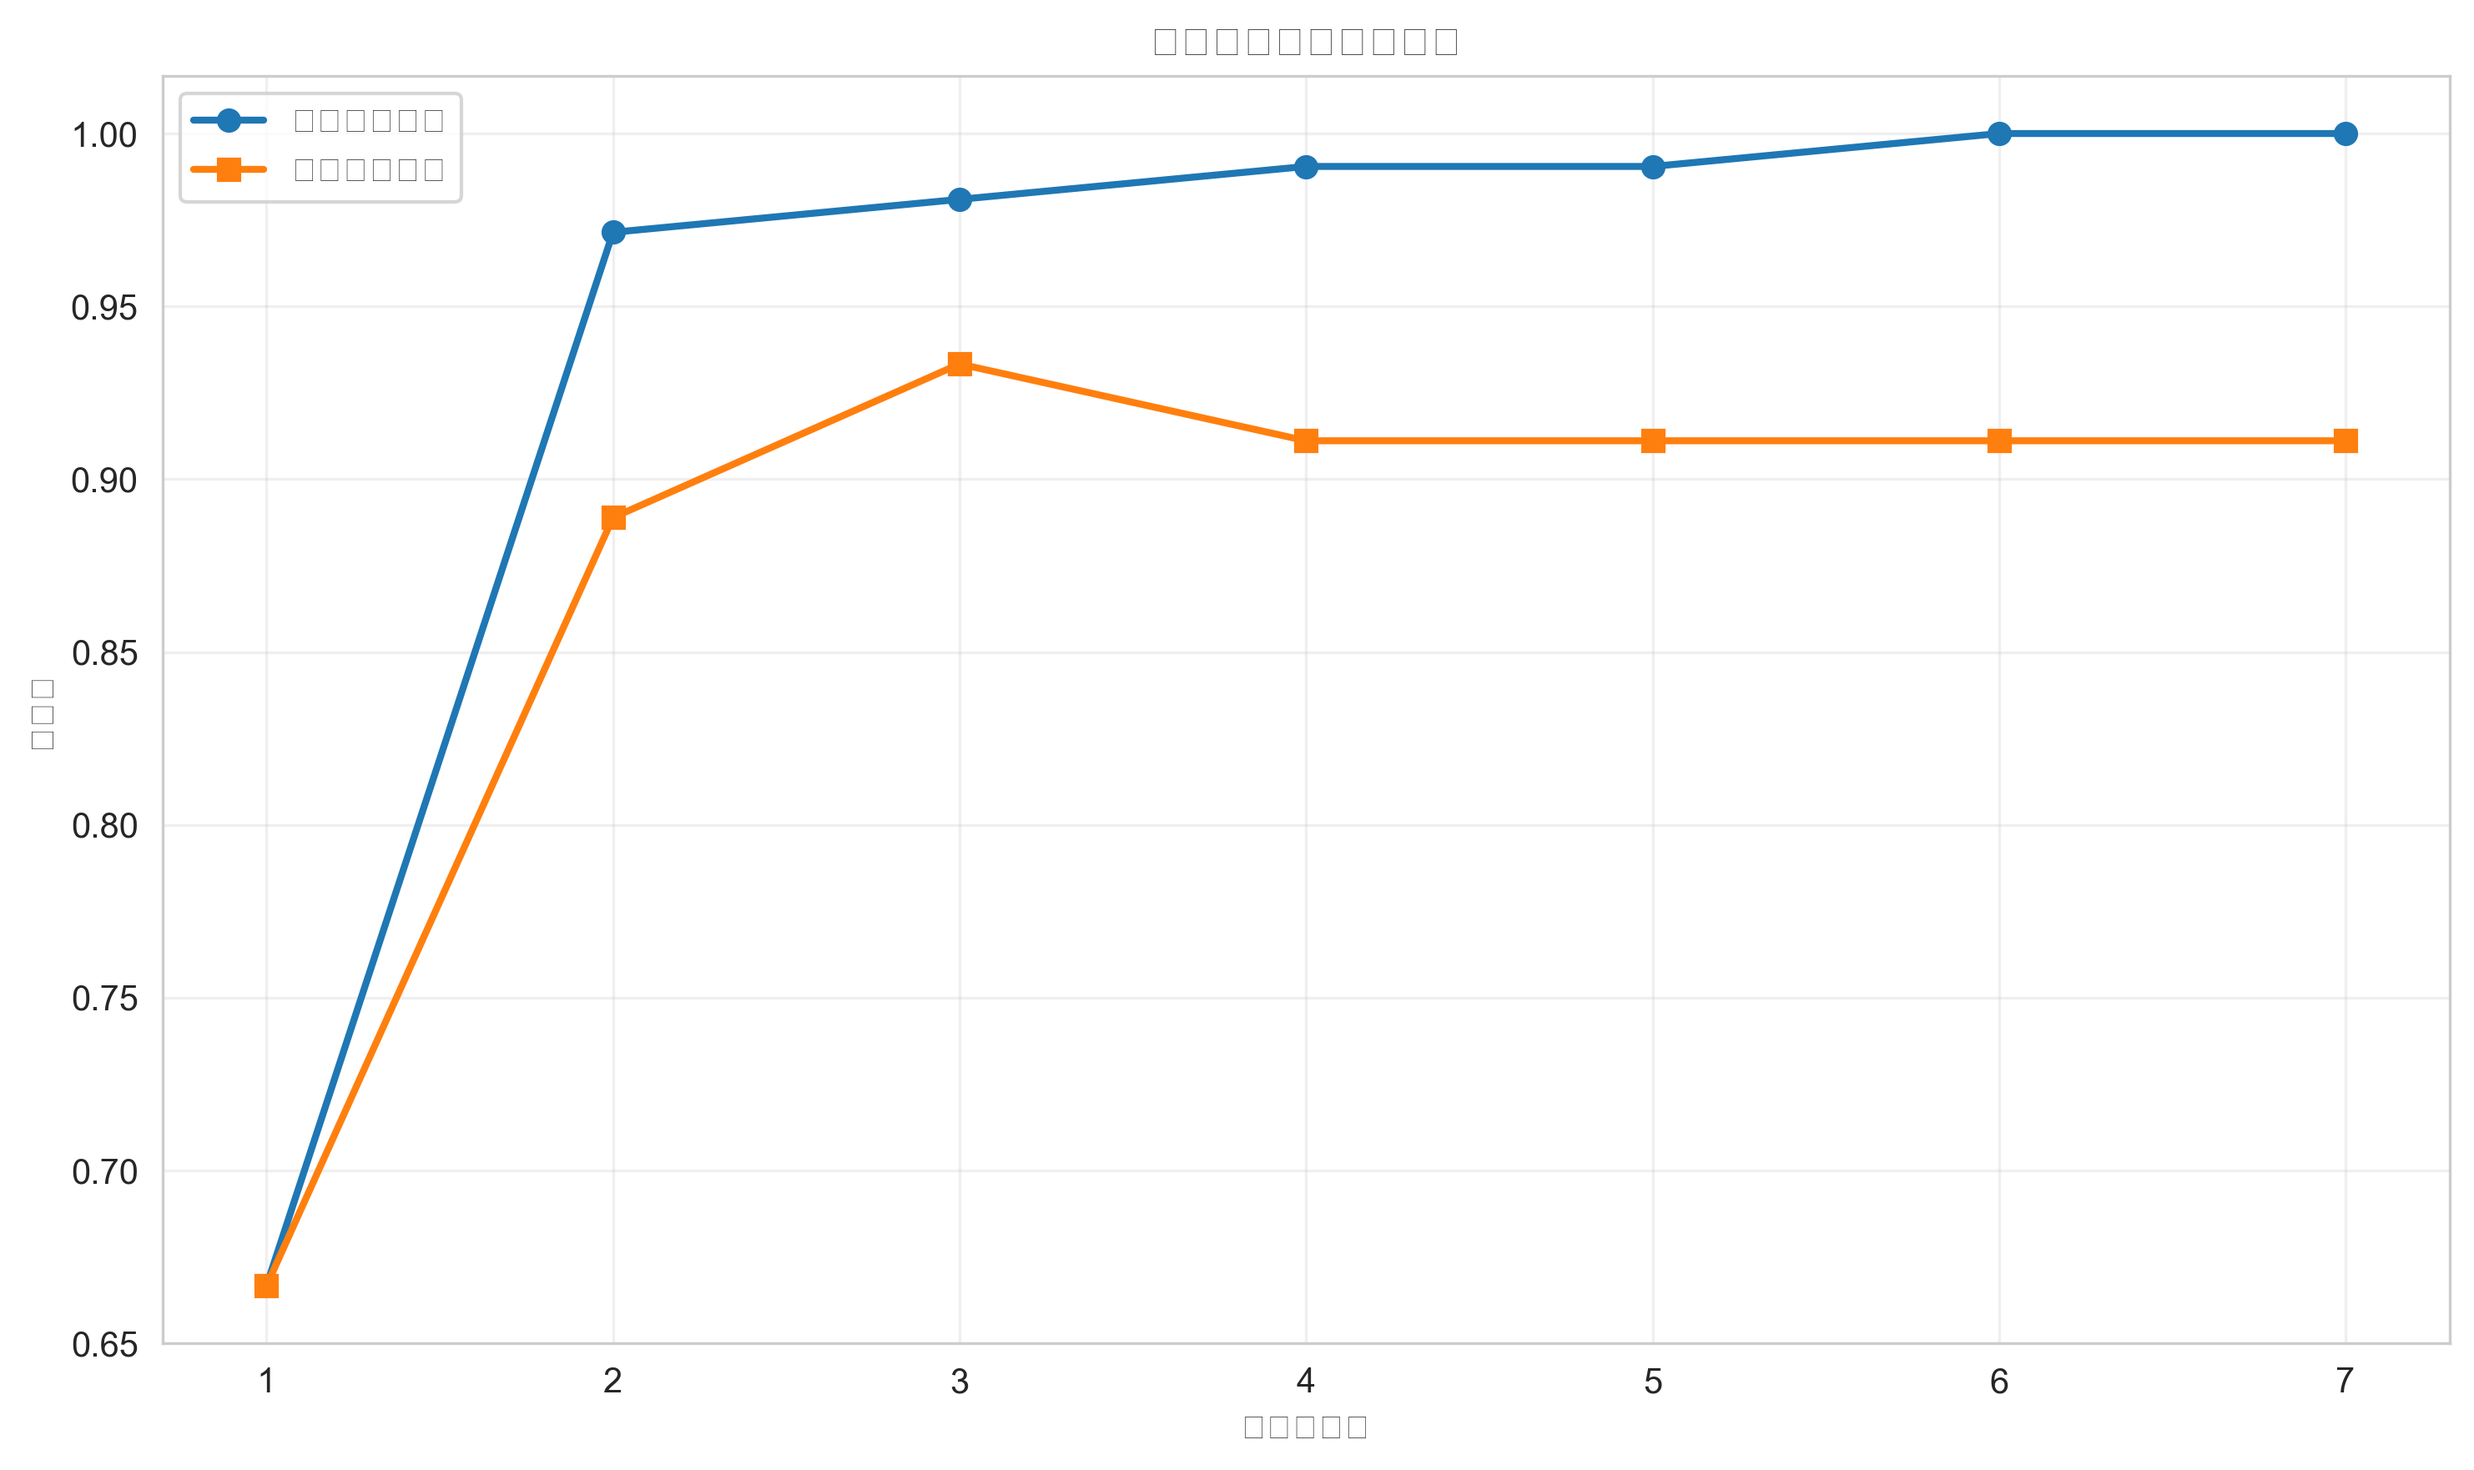
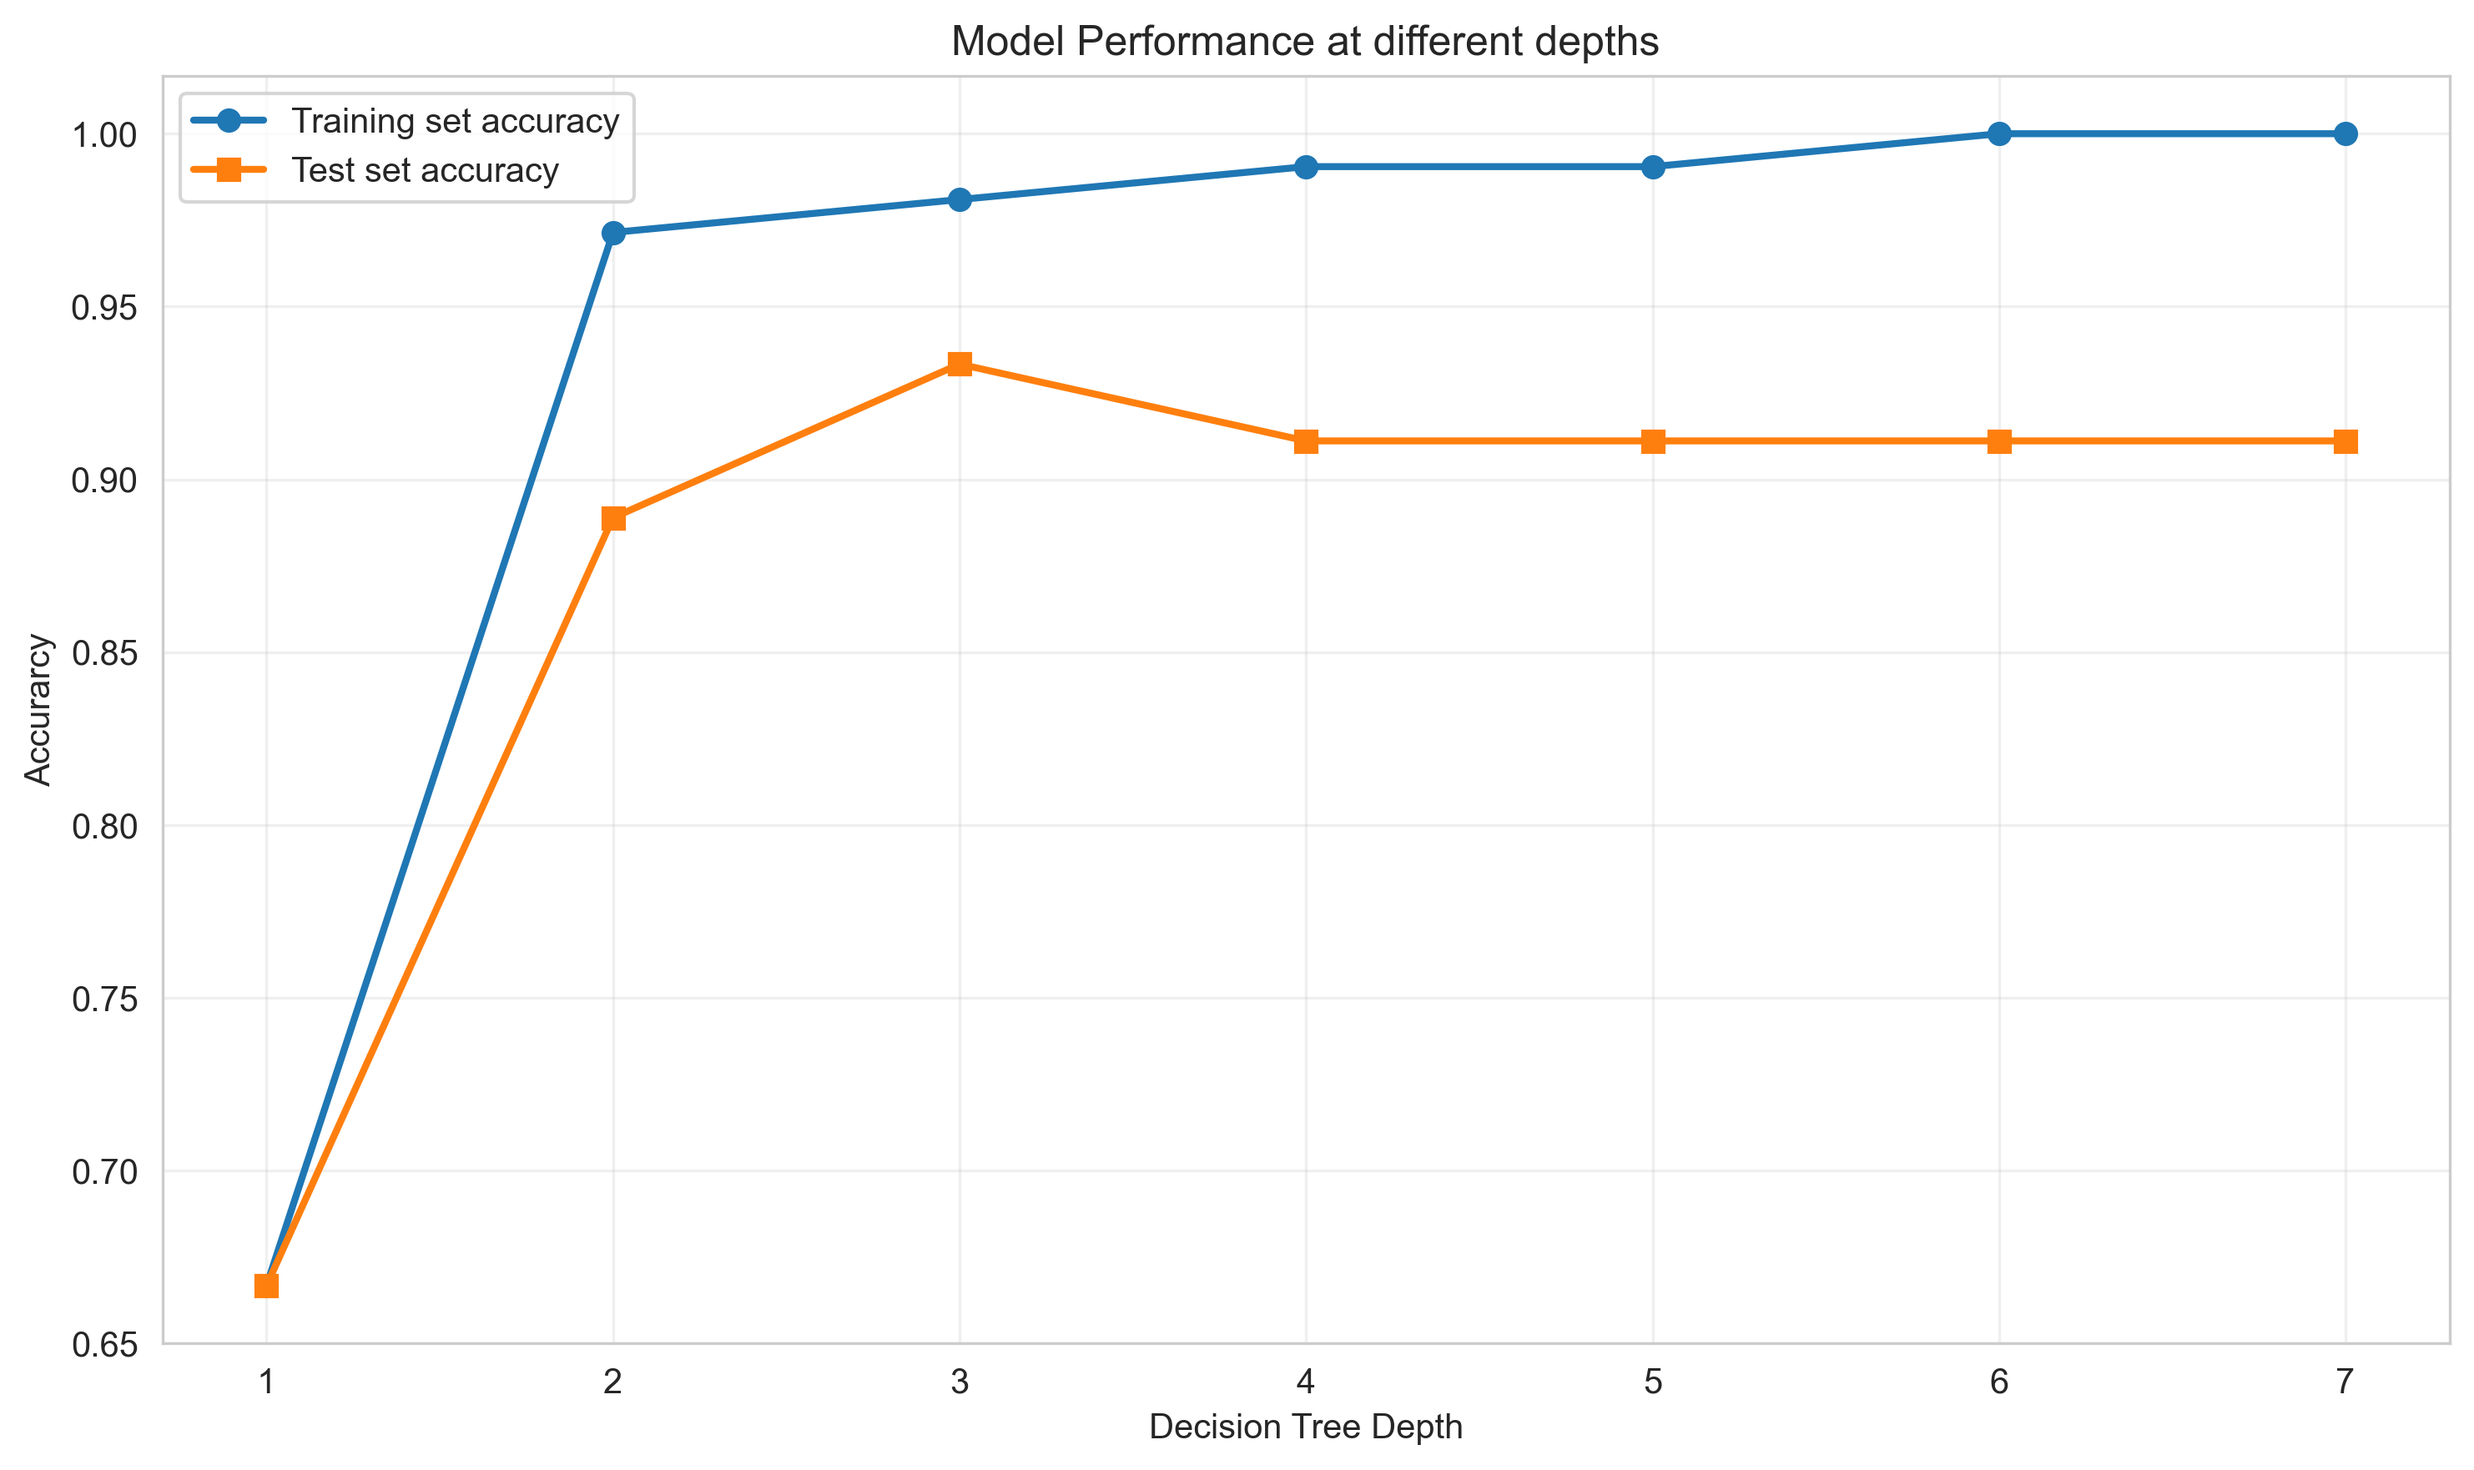
ver 2.0

diff --git a/Decision_Tree_ID3.py b/Decision_Tree_ID3.py
@@ -9,11 +9,7 @@ from sklearn.datasets import load_iris
 from sklearn.model_selection import train_test_split
 from sklearn.metrics import confusion_matrix, classification_report
 
-plt.rcParams['font.sans-serif'] = ['SimHei', 'Arial Unicode MS', 'DejaVu Sans']
-plt.rcParams['axes.unicode_minus'] = False
-
-# 设置中文字体和图形样式
-plt.rcParams['font.sans-serif'] = ['SimHei', 'Arial Unicode MS', 'DejaVu Sans']
+plt.rcParams['font.sans-serif'] = ['DejaVu Sans', 'SimHei', 'Microsoft YaHei', 'Arial Unicode MS', 'WenQuanYi Micro Hei']
 plt.rcParams['axes.unicode_minus'] = False
 sns.set_style("whitegrid")
 
@@ -184,7 +180,7 @@ class DecisionTreeVisualizer:
                 samples = node['samples']
 
                 # 绘制叶节点
-                ax.text(x, y, f'{class_name}\n置信度: {confidence:.2f}\n样本数: {samples}',
+                ax.text(x, y, f'{class_name}\nConfidence Level: {confidence:.2f}\nNumber of Samples: {samples}',
                         ha='center', va='center',
                         bbox=dict(boxstyle="round,pad=0.3", facecolor='lightgreen', alpha=0.7),
                         fontsize=9)
@@ -195,7 +191,7 @@ class DecisionTreeVisualizer:
                 gain = node['gain']
                 samples = node['samples']
 
-                ax.text(x, y, f'{feature_name} <= {threshold:.2f}\n信息增益: {gain:.3f}\n样本数: {samples}',
+                ax.text(x, y, f'{feature_name} <= {threshold:.2f}\nInformation gain: {gain:.3f}\nNumber of Samples: {samples}',
                         ha='center', va='center',
                         bbox=dict(boxstyle="round,pad=0.3", facecolor='lightblue', alpha=0.7),
                         fontsize=8)
@@ -209,11 +205,11 @@ class DecisionTreeVisualizer:
                 plot_node(node['right'], x + dx, y - dy, dx / 2, dy)
 
                 # 添加分支标签
-                ax.text(x - dx / 2, y - dy / 2, '是', ha='center', va='center', fontsize=7)
-                ax.text(x + dx / 2, y - dy / 2, '否', ha='center', va='center', fontsize=7)
+                ax.text(x - dx / 2, y - dy / 2, 'Yes', ha='center', va='center', fontsize=7)
+                ax.text(x + dx / 2, y - dy / 2, 'No', ha='center', va='center', fontsize=7)
 
         plot_node(self.model.tree, 0.5, 0.95, 0.2, 0.2)
-        plt.title('决策树结构可视化', fontsize=14, fontweight='bold', pad=20)
+        plt.title('DecisionTree Visualization', fontsize=14, fontweight='bold', pad=20)
         plt.tight_layout()
         return fig
 
@@ -230,8 +226,8 @@ class DecisionTreeVisualizer:
             ax.set_yticks(range(len(features)))
             ax.set_yticklabels(features)
             ax.invert_yaxis()
-            ax.set_xlabel('特征重要性')
-            ax.set_title('决策树特征重要性排序', fontsize=14, fontweight='bold')
+            ax.set_xlabel('Importance of Features')
+            ax.set_title('Feature Importance Ranking of DecisionTree', fontsize=14, fontweight='bold')
 
             # 在条形上添加数值
             for i, bar in enumerate(bars):
@@ -251,16 +247,16 @@ class DecisionTreeVisualizer:
         sns.heatmap(cm, annot=True, fmt='d', cmap='Blues',
                     xticklabels=self.target_names,
                     yticklabels=self.target_names, ax=ax)
-        ax.set_xlabel('预测标签')
-        ax.set_ylabel('真实标签')
-        ax.set_title('混淆矩阵', fontsize=14, fontweight='bold')
+        ax.set_xlabel('Predicted Label')
+        ax.set_ylabel('Actual Label')
+        ax.set_title('Confusion Matrix', fontsize=14, fontweight='bold')
         plt.tight_layout()
         return fig
 
     def plot_decision_boundaries(self, X, y, features_idx=(0, 1), figsize=(12, 4)):
         """绘制决策边界（选择两个特征）"""
         if len(features_idx) != 2:
-            raise ValueError("请选择两个特征进行可视化")
+            raise ValueError("Please choose two features for visualization")
 
         feat1, feat2 = features_idx
         feature1_name = self.feature_names[feat1]
@@ -289,7 +285,7 @@ class DecisionTreeVisualizer:
                               cmap=plt.cm.RdYlBu, edgecolor='black', s=50)
         ax1.set_xlabel(feature1_name)
         ax1.set_ylabel(feature2_name)
-        ax1.set_title(f'决策边界 ({feature1_name} vs {feature2_name})')
+        ax1.set_title(f'Decision Boundary ({feature1_name} vs {feature2_name})')
         plt.colorbar(contour, ax=ax1)
 
         # 右侧：分类结果散点图
@@ -299,7 +295,7 @@ class DecisionTreeVisualizer:
         ax2.scatter(X[:, feat1], X[:, feat2], c=colors, alpha=0.6, s=50)
         ax2.set_xlabel(feature1_name)
         ax2.set_ylabel(feature2_name)
-        ax2.set_title('分类结果（绿色:正确, 红色:错误）')
+        ax2.set_title('Classification Result(Green:Correct, Red:Wrong)')
 
         plt.tight_layout()
         return fig
@@ -318,11 +314,11 @@ class DecisionTreeVisualizer:
             test_scores.append(temp_model.score(X_test, y_test))
 
         fig, ax = plt.subplots(figsize=figsize)
-        ax.plot(depths, train_scores, 'o-', label='训练集准确率', linewidth=2)
-        ax.plot(depths, test_scores, 's-', label='测试集准确率', linewidth=2)
-        ax.set_xlabel('决策树深度')
-        ax.set_ylabel('准确率')
-        ax.set_title('不同深度下的模型性能')
+        ax.plot(depths, train_scores, 'o-', label='Training set accuracy', linewidth=2)
+        ax.plot(depths, test_scores, 's-', label='Test set accuracy', linewidth=2)
+        ax.set_xlabel('Decision Tree Depth')
+        ax.set_ylabel('Accurarcy')
+        ax.set_title('Model Performance at different depths')
         ax.legend()
         ax.grid(True, alpha=0.3)
         plt.tight_layout()
@@ -331,7 +327,7 @@ class DecisionTreeVisualizer:
 
 def main():
     """主函数：完整的测试和可视化"""
-    print("=== 决策树ID3算法实现 - 鸢尾花数据集分类与可视化 ===\n")
+    print("=== Decision Tree ID3 Algorithm - Iris Dataset Classification & Visualization ===\n")
 
     # 1. 加载数据
     iris = load_iris()
@@ -339,24 +335,24 @@ def main():
     feature_names = iris.feature_names
     target_names = iris.target_names
 
-    print("数据集信息:")
-    print(f"- 样本数量: {X.shape[0]}")
-    print(f"- 特征数量: {X.shape[1]}")
-    print(f"- 特征名称: {list(feature_names)}")
-    print(f"- 类别名称: {list(target_names)}")
-    print(f"- 类别分布: {dict(zip(target_names, np.bincount(y)))}\n")
+    print("Dataset Information:")
+    print(f"- Number of Samples: {X.shape[0]}")
+    print(f"- Number of features: {X.shape[1]}")
+    print(f"- Feature Name: {list(feature_names)}")
+    print(f"- Class Name: {list(target_names)}")
+    print(f"- Class Distribution: {dict(zip(target_names, np.bincount(y)))}\n")
 
     # 2. 数据划分
     X_train, X_test, y_train, y_test = train_test_split(
         X, y, test_size=0.3, random_state=42, stratify=y
     )
 
-    print("数据划分:")
-    print(f"- 训练集大小: {X_train.shape[0]}")
-    print(f"- 测试集大小: {X_test.shape[0]}")
+    print("Data Split:")
+    print(f"- Size of Training Set: {X_train.shape[0]}")
+    print(f"- Size of Test Set: {X_test.shape[0]}")
 
     # 3. 训练模型
-    print("\n训练决策树模型中...")
+    print("\nTraining Decision Tree Model...")
     dt = DecisionTreeID3(max_depth=4, min_samples_split=5)
     dt.feature_names = feature_names
     dt.fit(X_train, y_train)
@@ -365,15 +361,15 @@ def main():
     train_accuracy = dt.score(X_train, y_train)
     test_accuracy = dt.score(X_test, y_test)
 
-    print("\n模型性能评估:")
-    print(f"- 训练集准确率: {train_accuracy:.3f}")
-    print(f"- 测试集准确率: {test_accuracy:.3f}")
+    print("\nModel Performance Evaluation:")
+    print(f"- Training Set Accuracy: {train_accuracy:.3f}")
+    print(f"- Test Set Accuracy: {test_accuracy:.3f}")
 
     # 5. 创建可视化器
     visualizer = DecisionTreeVisualizer(dt, feature_names, target_names)
 
     # 6. 生成所有可视化图表
-    print("\n生成可视化图表...")
+    print("\nGenerating Visualizations...")
 
     # 特征重要性图
     fig1 = visualizer.plot_feature_importance()
@@ -397,7 +393,7 @@ def main():
 
     # 7. 显示详细分类报告
     y_pred = dt.predict(X_test)
-    print("\n详细分类报告:")
+    print("\nclassification_report:")
     print(classification_report(y_test, y_pred, target_names=target_names))
 
     # 8. 显示预测示例
@@ -408,10 +404,10 @@ def main():
         predicted = target_names[y_pred[idx]]
         confidence = dt.predict_proba(X_test[idx:idx + 1])[0]
         status = "✓" if actual == predicted else "✗"
-        print(f"样本{i + 1}: {status} 实际={actual:12} 预测={predicted:12} 置信度={confidence:.3f}")
+        print(f"Sample{i + 1}: {status} Actual={actual:12} Predicted={predicted:12} Confidence Level={confidence:.3f}")
 
-    print(f"\n所有可视化图表已保存为PNG文件")
-    print("可以关闭图表窗口继续程序...")
+    print(f"\nAll visualizations saved as PNG files")
+    print("Plots displayed. Close windows to continue.")
     plt.show()
 
 
